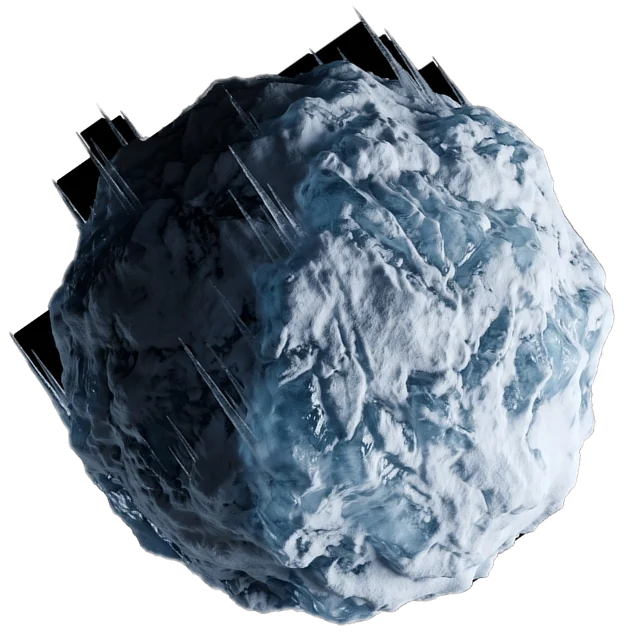
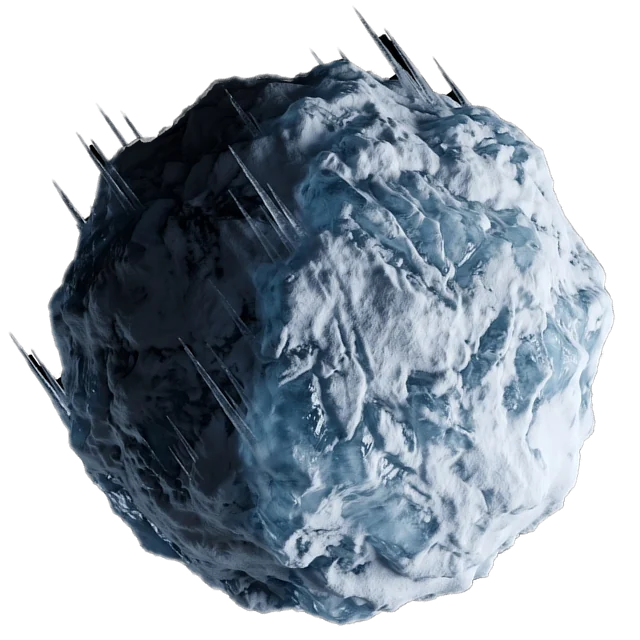
Buz ve enkaz çizimlerinin kenarları temizlendi (1.29.1)
- Sarkıtlar ve kirişler arasındaki koyu dolgular kaldırıldı, kenar yumuşatma parlaklığa göre

Claude-Session: https://claude.ai/code/session_01YNY6pHbJFdPU9EshY3GZjT

diff --git a/index.html b/index.html
@@ -127,7 +127,7 @@ body,button{font-size-adjust:.5}
 <script>
 /* SÜRÜM: her güncellemede bu numarayı artır. Tarayıcı eski game.js dosyasını önbellekten getirmez,
    ayarlar panelinin altında da bu numara görünür. */
-window.SD_VERSION = '1.29.0';
+window.SD_VERSION = '1.29.1';
 document.write('<script src="vendor/three-bloom.js?v=' + window.SD_VERSION + '"><\/script>');
 document.write('<script src="js/game.js?v=' + window.SD_VERSION + '"><\/script>');
 </script>
